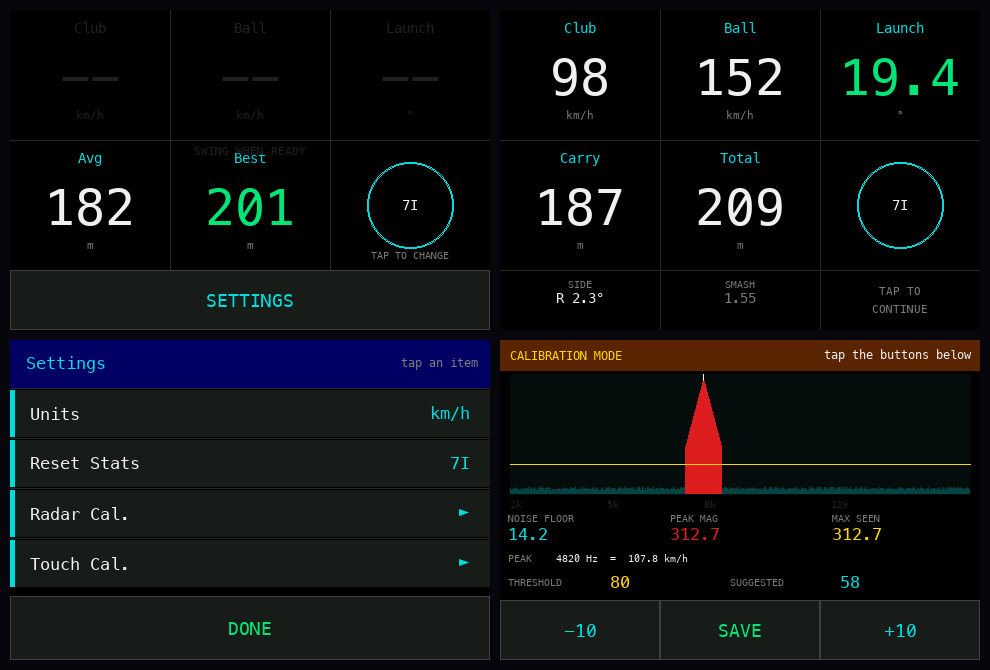
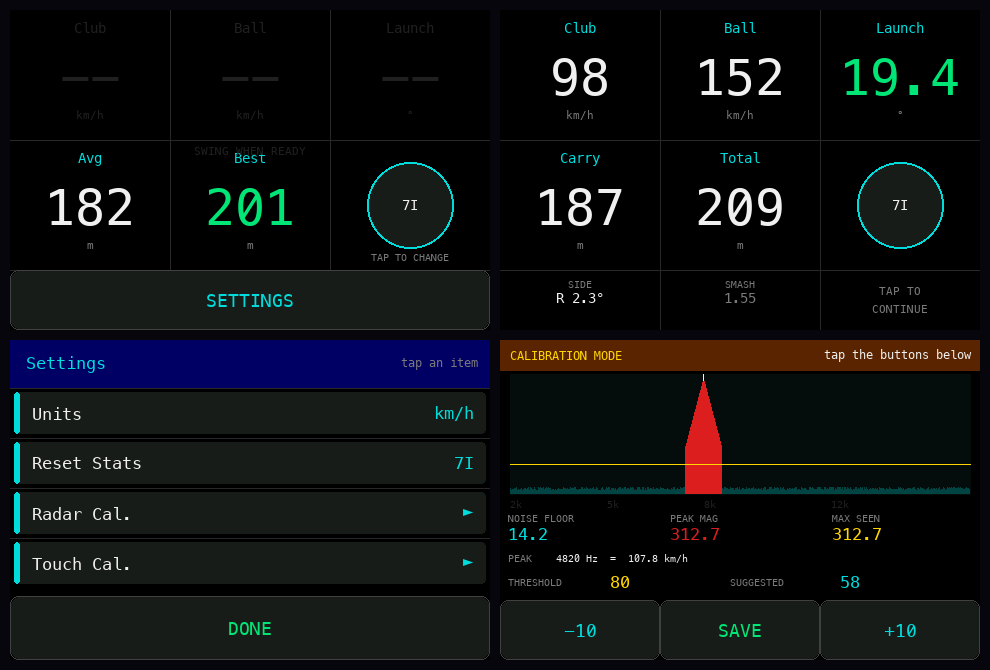
Redesign UI with rounded corners and polished visuals
- Buttons (SETTINGS, DONE, cal buttons) now use fillRoundRect/drawRoundRect
  with BTN_RADIUS=8 for a modern pill-like look
- Club circle gets a filled dark background (COL_BTN_BG) before drawing the
  double-thick cyan border, giving it depth
- Settings rows use rounded card strips with a thicker (6px) left accent stripe
- Add COL_TILE_BG and BTN_RADIUS constants to config.h
- Mockup generator mirrors all changes via Pillow rounded_rectangle with fallback

Changed region(s): [[0.0, 0.5672, 0.5152, 0.8955], [0.8485, 0.2388, 0.9697, 0.3881], [0.3636, 0.2388, 0.4545, 0.3881]]

diff --git a/tools/generate_mockup.py b/tools/generate_mockup.py
@@ -70,8 +70,10 @@ DIV     = rgb565(cfg["COL_DIV"])
 UNIT_C  = rgb565(cfg["COL_UNIT"])
 DIM     = rgb565(cfg["COL_DIM"])
 CAL_HDR = rgb565(cfg["COL_CAL_HDR"])
-BTN_BG  = rgb565(cfg.get("COL_BTN_BG",  0x18E3))
-BTN_BRD = rgb565(cfg.get("COL_BTN_BRD", 0x4208))
+BTN_BG   = rgb565(cfg.get("COL_BTN_BG",  0x18E3))
+BTN_BRD  = rgb565(cfg.get("COL_BTN_BRD", 0x4208))
+TILE_BG  = rgb565(cfg.get("COL_TILE_BG", 0x0841))
+BTN_R    = cfg.get("BTN_RADIUS", 8)
 
 # ─── Font loader ──────────────────────────────────────────────────────────────
 
@@ -137,6 +139,16 @@ def mr(draw, text, x, cy, font, color):
     w, h = bb[2] - bb[0], bb[3] - bb[1]
     draw.text((x - w, cy - h // 2 - bb[1]), text, font=font, fill=color)
 
+def rounded_rect(draw, x, y, w, h, r, fill=None, outline=None, width=1):
+    try:
+        draw.rounded_rectangle([(x, y), (x+w-1, y+h-1)], radius=r,
+                                fill=fill, outline=outline, width=width)
+    except AttributeError:
+        if fill:
+            draw.rectangle([x, y, x+w-1, y+h-1], fill=fill)
+        if outline:
+            draw.rectangle([x, y, x+w-1, y+h-1], outline=outline, width=width)
+
 def grid_lines(draw):
     draw.line([(COL_W, 0), (COL_W, SCR_H)],       fill=DIV, width=1)
     draw.line([(COL_W*2, 0), (COL_W*2, SCR_H)],   fill=DIV, width=1)
@@ -144,9 +156,9 @@ def grid_lines(draw):
     draw.line([(0, ROW_H*2), (SCR_W, ROW_H*2)],    fill=DIV, width=1)
 
 def draw_button(draw, x, y, w, h, label, text_col):
-    """Bordered touch button: dark slate fill + grey border + centered label."""
-    draw.rectangle([x+1, y+1, x+w-2, y+h-2], fill=BTN_BG)
-    draw.rectangle([x, y, x+w-1, y+h-1], outline=BTN_BRD, width=1)
+    """Rounded touch button: dark slate fill + grey border + centered label."""
+    rounded_rect(draw, x+1, y+1, w-2, h-2, BTN_R, fill=BTN_BG)
+    rounded_rect(draw, x, y, w, h, BTN_R, outline=BTN_BRD, width=1)
     mc(draw, label, x + w // 2, y + h // 2, F_BTN, text_col)
 
 def draw_tile(draw, col, row, label, number, unit, num_color, dimmed=False):
@@ -170,12 +182,12 @@ def draw_mini_tile(draw, col, label, value, val_color, dimmed=False):
 def draw_club_tile(draw, col, row, abbr, tap_hint=False):
     cx = col * COL_W + COL_W // 2
     cy = row * ROW_H + ROW_H // 2
-    r  = 42
-    draw.ellipse([cx-r, cy-r, cx+r, cy+r],   outline=CYAN, width=1)
-    draw.ellipse([cx-r-1, cy-r-1, cx+r+1, cy+r+1], outline=CYAN, width=1)
+    r  = 43
+    draw.ellipse([cx-r, cy-r, cx+r, cy+r], fill=BTN_BG)
+    draw.ellipse([cx-r, cy-r, cx+r, cy+r], outline=CYAN, width=2)
     mc(draw, abbr, cx, cy, F_LABEL, WHITE)
     if tap_hint:
-        tc(draw, "TAP TO CHANGE", cx, cy + 44, F_SMALL, UNIT_C)
+        tc(draw, "TAP TO CHANGE", cx, cy + 46, F_SMALL, UNIT_C)
 
 # ─── Screen 1 — Ready ─────────────────────────────────────────────────────────
 
@@ -240,14 +252,14 @@ def screen_settings():
     labels = ["Units", "Reset Stats", "Radar Cal.", "Touch Cal."]
     values = ["km/h",  "7I",          "►",          "►"]
 
-    # Tappable item rows — each a bordered button-style strip
+    # Tappable item rows — rounded card strips with cyan accent stripe
     for i, (label, value) in enumerate(zip(labels, values)):
         y = SET_HDR_H + i * SET_ROW_H
-        draw.rectangle([0, y + 2, SCR_W, y + SET_ROW_H - 2], fill=BTN_BG)
         draw.line([(0, y), (SCR_W, y)], fill=DIV, width=1)
-        draw.rectangle([0, y + 2, 4, y + SET_ROW_H - 2], fill=CYAN)  # accent stripe
-        ml(draw, label, 20,         y + SET_ROW_H // 2, F_MED, WHITE)
-        mr(draw, value, SCR_W - 20, y + SET_ROW_H // 2, F_MED, CYAN)
+        rounded_rect(draw, 4, y + 4, SCR_W - 8, SET_ROW_H - 8, BTN_R // 2, fill=BTN_BG)
+        rounded_rect(draw, 4, y + 4, 6, SET_ROW_H - 8, BTN_R // 2, fill=CYAN)  # accent
+        ml(draw, label, 22,         y + SET_ROW_H // 2, F_MED, WHITE)
+        mr(draw, value, SCR_W - 16, y + SET_ROW_H // 2, F_MED, CYAN)
 
     # DONE bar — exit settings
     draw_button(draw, 0, SET_DONE_Y, SCR_W, SCR_H - SET_DONE_Y, "DONE", GREEN)

diff --git a/src/display.cpp b/src/display.cpp
@@ -105,8 +105,8 @@ int ui_cal_hit(int x, int y)
 static void draw_button(int x, int y, int w, int h, const char* label,
                         uint16_t border, uint16_t text_col, bool filled = true)
 {
-    if (filled) tft.fillRect(x + 1, y + 1, w - 2, h - 2, COL_BTN_BG);
-    tft.drawRect(x, y, w, h, border);
+    if (filled) tft.fillRoundRect(x + 1, y + 1, w - 2, h - 2, BTN_RADIUS, COL_BTN_BG);
+    tft.drawRoundRect(x, y, w, h, BTN_RADIUS, border);
     tft.setTextDatum(MC_DATUM);
     tft.setTextFont(4); tft.setTextColor(text_col, filled ? COL_BTN_BG : TFT_BLACK);
     tft.drawString(label, x + w / 2, y + h / 2);
@@ -159,10 +159,11 @@ static void draw_club_tile(int col, int row, int club_idx, bool tap_hint = false
 {
     const int cx = col * COL_W + COL_W / 2;
     const int cy = row * ROW_H + ROW_H / 2;
-    tft.drawCircle(cx, cy, 42, TFT_CYAN);
+    tft.fillCircle(cx, cy, 43, COL_BTN_BG);
     tft.drawCircle(cx, cy, 43, TFT_CYAN);
+    tft.drawCircle(cx, cy, 44, TFT_CYAN);
     tft.setTextDatum(MC_DATUM);
-    tft.setTextFont(4); tft.setTextColor(TFT_WHITE, TFT_BLACK);
+    tft.setTextFont(4); tft.setTextColor(TFT_WHITE, COL_BTN_BG);
     tft.drawString(CLUBS[club_idx].abbr, cx, cy);
     if (tap_hint) {
         tft.setTextFont(1); tft.setTextColor(COL_UNIT, TFT_BLACK);
@@ -292,21 +293,21 @@ void ui_settings_draw(int club_idx, bool use_mph, bool reset_done)
     const char* labels[SET_N_ROWS] = { "Units", "Reset Stats", "Radar Cal.", "Touch Cal." };
     const char* values[SET_N_ROWS] = { unit_val, reset_val,     "\x10",      "\x10"       };
 
-    // Tappable item rows — each is a bordered button-style strip.
+    // Tappable item rows — rounded card strips with cyan accent stripe.
     for (int i = 0; i < SET_N_ROWS; i++) {
         const int y = SET_HDR_H + i * SET_ROW_H;
-        tft.fillRect(0, y + 2, SCR_W, SET_ROW_H - 4, COL_BTN_BG);
         tft.drawFastHLine(0, y, SCR_W, COL_DIV);
-        tft.fillRect(0, y + 2, 4, SET_ROW_H - 4, TFT_CYAN);   // accent stripe
+        tft.fillRoundRect(4, y + 4, SCR_W - 8, SET_ROW_H - 8, BTN_RADIUS / 2, COL_BTN_BG);
+        tft.fillRoundRect(4, y + 4, 6, SET_ROW_H - 8, BTN_RADIUS / 2, TFT_CYAN);  // accent
 
         tft.setTextDatum(ML_DATUM);
         tft.setTextFont(4); tft.setTextColor(TFT_WHITE, COL_BTN_BG);
-        tft.drawString(labels[i], 20, y + SET_ROW_H / 2);
+        tft.drawString(labels[i], 22, y + SET_ROW_H / 2);
 
         uint16_t vc = (i == 1 && reset_done) ? TFT_GREEN : TFT_CYAN;
         tft.setTextColor(vc, COL_BTN_BG);
         tft.setTextDatum(MR_DATUM);
-        tft.drawString(values[i], SCR_W - 20, y + SET_ROW_H / 2);
+        tft.drawString(values[i], SCR_W - 16, y + SET_ROW_H / 2);
     }
 
     // DONE bar — exit settings.

diff --git a/src/config.h b/src/config.h
@@ -63,6 +63,8 @@
 #define COL_SEL_BG   0x1082   // very dark blue — settings selection bg
 #define COL_BTN_BG   0x18E3   // dark slate — touch button fill
 #define COL_BTN_BRD  0x4208   // grey       — touch button border
+#define COL_TILE_BG  0x0841   // very dark grey — card tile background
+#define BTN_RADIUS   8        // rounded corner radius for buttons/rows
 
 // ─── Touch layout ─────────────────────────────────────────────────────────────
 // Geometry shared between the draw code (display.cpp) and hit-testing.